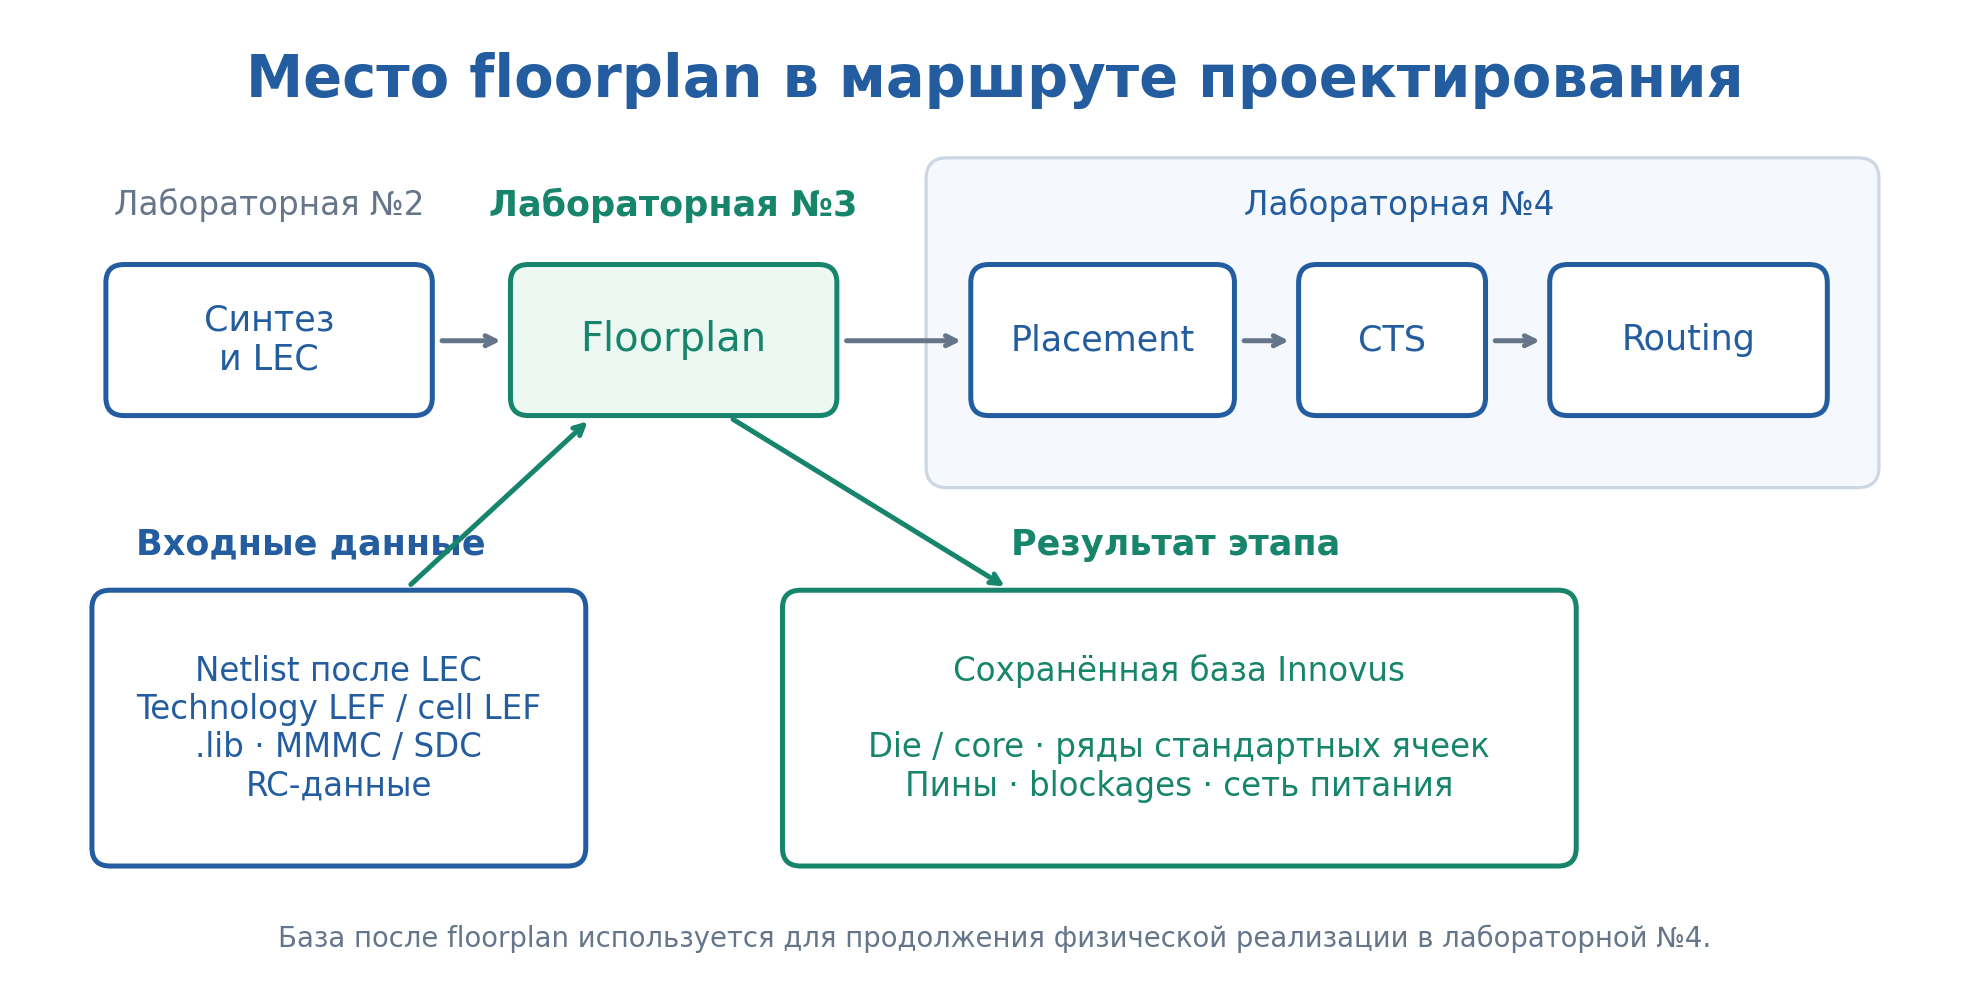
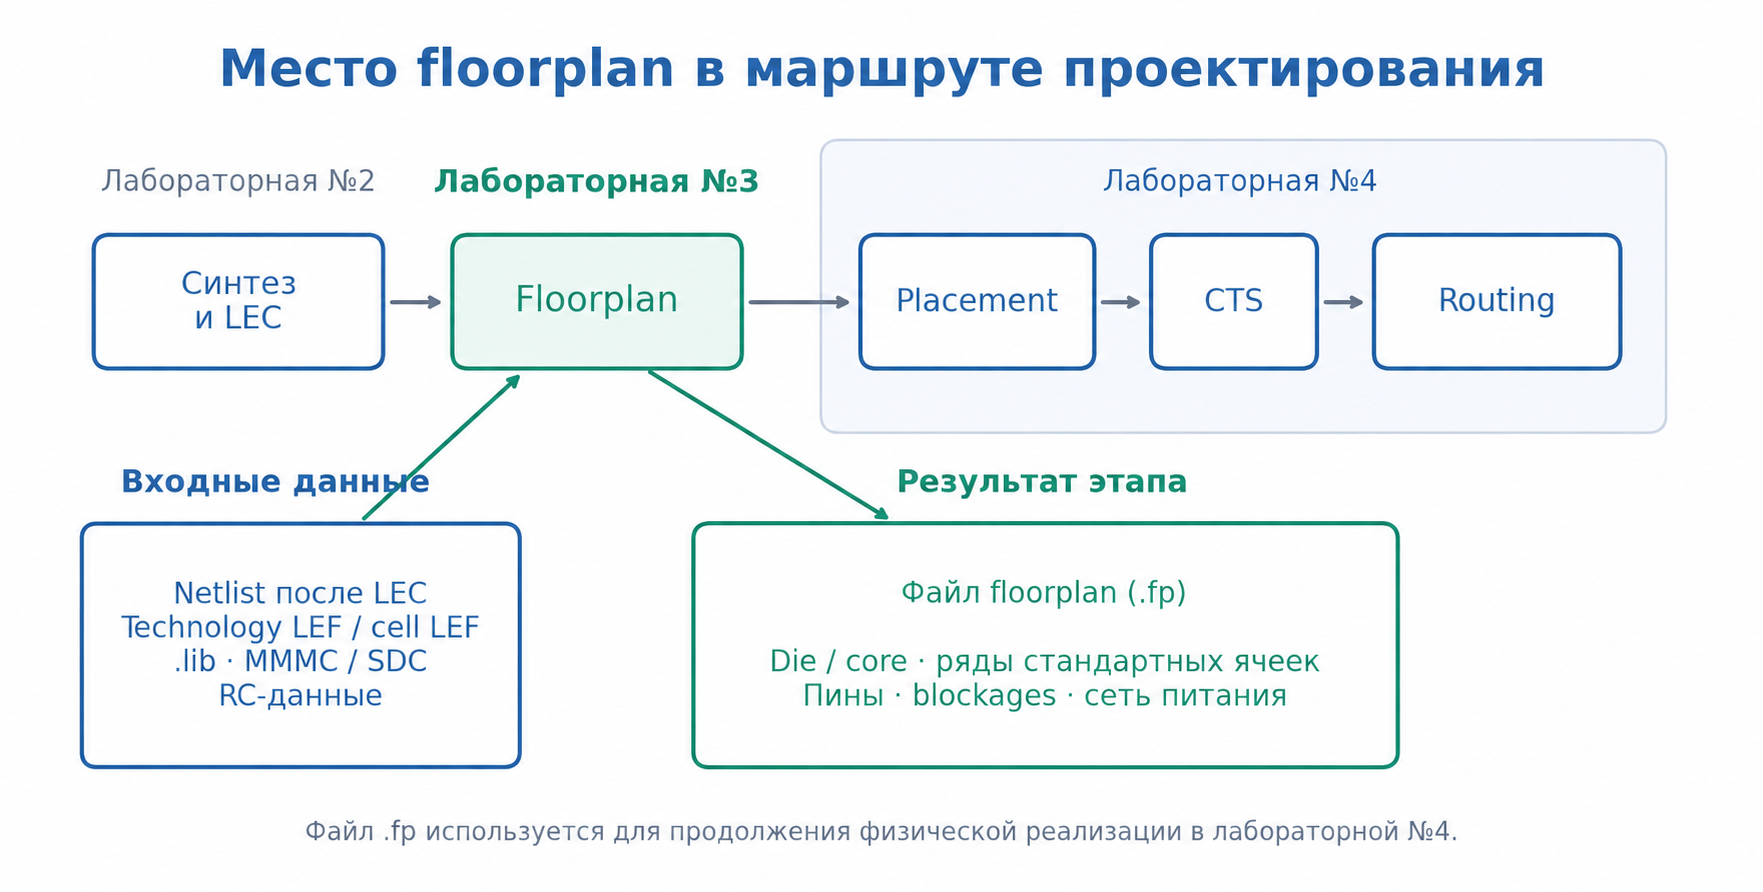
up

diff --git a/lab3/README.md b/lab3/README.md
@@ -47,18 +47,158 @@
 
 # 3. Импорт проекта
 
-1. Укажите свой блок как верхний модуль и подключите его корректный итоговый netlist.
+Запуск Innovus и передача исходных данных выполняются через `Makefile`. Он задаёт имя блока, пути к netlist и библиотекам, конфигурацию MMMC и имена сетей питания.
 
-2. Подключите предоставленные библиотеки и конфигурацию MMMC/SDC.
+## 3.1. Настройка Makefile
 
-3. Проверьте имя проекта, наличие необходимых представлений ячеек и загрузку ограничений.
+Выполняйте команды из корневого каталога проекта, в котором находится `Makefile`.
 
-4. Устраните ошибки чтения и объясните существенные предупреждения.
+Укажите имя своего блока:
 
-5. Сохраните исходную базу после импорта, до изменений floorplan. Она служит начальной точкой для демонстрации повторного выполнения задания на 5.
+```makefile
+export ENV_DESIGN = blockA
+```
 
-**Дополнить:** проверенные команды импорта, проверки и сохранения исходной базы; признаки успешной загрузки по log.
+Имя должно совпадать с верхним модулем в netlist. Для второго блока используйте `blockB`.
 
+Проверьте основные параметры:
+
+| Переменная | Назначение |
+| --- | --- |
+| `PDK_DIR` | Каталог с PDK |
+| `ENV_DESIGN` | Имя верхнего модуля |
+| `ENV_NETLIST` | Netlist после синтеза и успешного LEC |
+| `ENV_LEF_FILES` | Список технологического и библиотечного LEF |
+| `ENV_MMMC` | Файл конфигурации MMMC |
+| `ENV_POWER_NETS` | Имена сетей питания |
+| `ENV_GROUND_NETS` | Имена сетей земли |
+| `TECH_SIZE` | Технологический узел, нм |
+
+В предоставленном Makefile пути формируются следующим образом:
+
+```makefile
+export ENV_DESIGN_DIR = $(PWD)/data/$(ENV_DESIGN)
+export ENV_MMMC       = $(ENV_DESIGN_DIR)/mmmc.view
+export ENV_NETLIST    = $(GENUS_OUTPUT_DIR)/syn_opt/$(ENV_DESIGN).v
+
+export TECH_SIZE       = 130
+export ENV_POWER_NETS  = VDD
+export ENV_GROUND_NETS = VSS
+```
+
+Например, для `blockA` ожидаются файлы:
+
+```text
+data/blockA/mmmc.view
+run/genus/outputs/syn_opt/blockA.v
+```
+
+Проверьте также пути к LEF-файлам и файлам, на которые ссылается `mmmc.view`: временным библиотекам, SDC и RC-данным.
+
+## 3.2. Запуск Innovus
+
+Для интерактивной работы с графическим интерфейсом выполните:
+
+```bash
+make innovus
+```
+
+Можно передать имя блока непосредственно при запуске:
+
+```bash
+make innovus ENV_DESIGN=blockA
+```
+
+Makefile создаст рабочие каталоги и запустит Innovus в режиме Stylus из каталога:
+
+```text
+run/innovus_fp/
+```
+
+**Цель `make innovus` только запускает инструмент: импорт проекта необходимо выполнить в консоли Innovus.**
+
+Для запуска подготовленного Tcl-сценария без GUI предусмотрена отдельная цель:
+
+```bash
+make innovus.fp ENV_DESIGN=blockA
+```
+
+Она выполняет файл:
+
+```text
+flow_scripts/flow.innovus.fp.tcl
+```
+
+Вывод сохраняется в:
+
+```text
+run/innovus_fp/logs/innovus_fp.log
+```
+
+Состав выполняемых операций определяется содержимым Tcl-сценария.
+
+## 3.3. Команды импорта в Innovus
+
+Переменные, объявленные в Makefile через `export`, доступны внутри Tcl как элементы `::env`.
+
+Импорт выполняется процедурой `user_init_design`:
+
+```tcl
+proc user_init_design {} {
+    # Настройка технологического узла
+    if {[info exists ::env(TECH_SIZE)] && $::env(TECH_SIZE) ne ""} {
+        set_db design_process_node $::env(TECH_SIZE)
+    }
+
+    # Исходные данные и сети питания
+    set_db init_netlist_files $::env(ENV_NETLIST)
+    set_db init_lef_files     $::env(ENV_LEF_FILES)
+    set_db init_power_nets    $::env(ENV_POWER_NETS)
+    set_db init_ground_nets   $::env(ENV_GROUND_NETS)
+    set_db init_mmmc_files    $::env(ENV_MMMC)
+
+    # Чтение конфигурации анализа и физических библиотек
+    read_mmmc $::env(ENV_MMMC)
+    read_physical -lef $::env(ENV_LEF_FILES)
+
+    # Чтение netlist и инициализация проекта
+    read_netlist $::env(ENV_NETLIST) -top $::env(ENV_DESIGN)
+    init_design
+}
+```
+
+Команды выполняют следующие действия:
+
+| Команда | Назначение |
+| --- | --- |
+| `set_db design_process_node` | Задаёт технологический узел для настроек инструмента; не заменяет загрузку PDK |
+| `set_db init_*` | Задаёт параметры инициализации |
+| `read_mmmc` | Читает конфигурацию режимов и условий анализа |
+| `read_physical -lef` | Загружает физические описания из LEF |
+| `read_netlist ... -top ...` | Загружает netlist и выбирает верхний модуль |
+| `init_design` | Выполняет инициализацию проекта на основе загруженных данных |
+
+После подключения Tcl-файла, содержащего определение процедуры, вызовите её в консоли Innovus:
+
+```tcl
+user_init_design
+```
+
+Определение процедуры само по себе не выполняет импорт.
+
+## 3.4. Проверка результата
+
+После импорта убедитесь, что:
+
+- выбран правильный верхний модуль;
+- netlist и LEF-файлы прочитаны без ошибок;
+- для используемых ячеек найдены необходимые библиотечные представления;
+- конфигурация MMMC, временные библиотеки и SDC загружены;
+- имена сетей питания и земли соответствуют проекту.
+
+Просмотрите сообщения в консоли и log. Устраните ошибки чтения файлов и отсутствующих ячеек, разберите существенные предупреждения.
+
+После успешного импорта можно переходить к созданию floorplan.
 # 4. Геометрия floorplan
 
 ## 4.1. Die, core, rows и site
